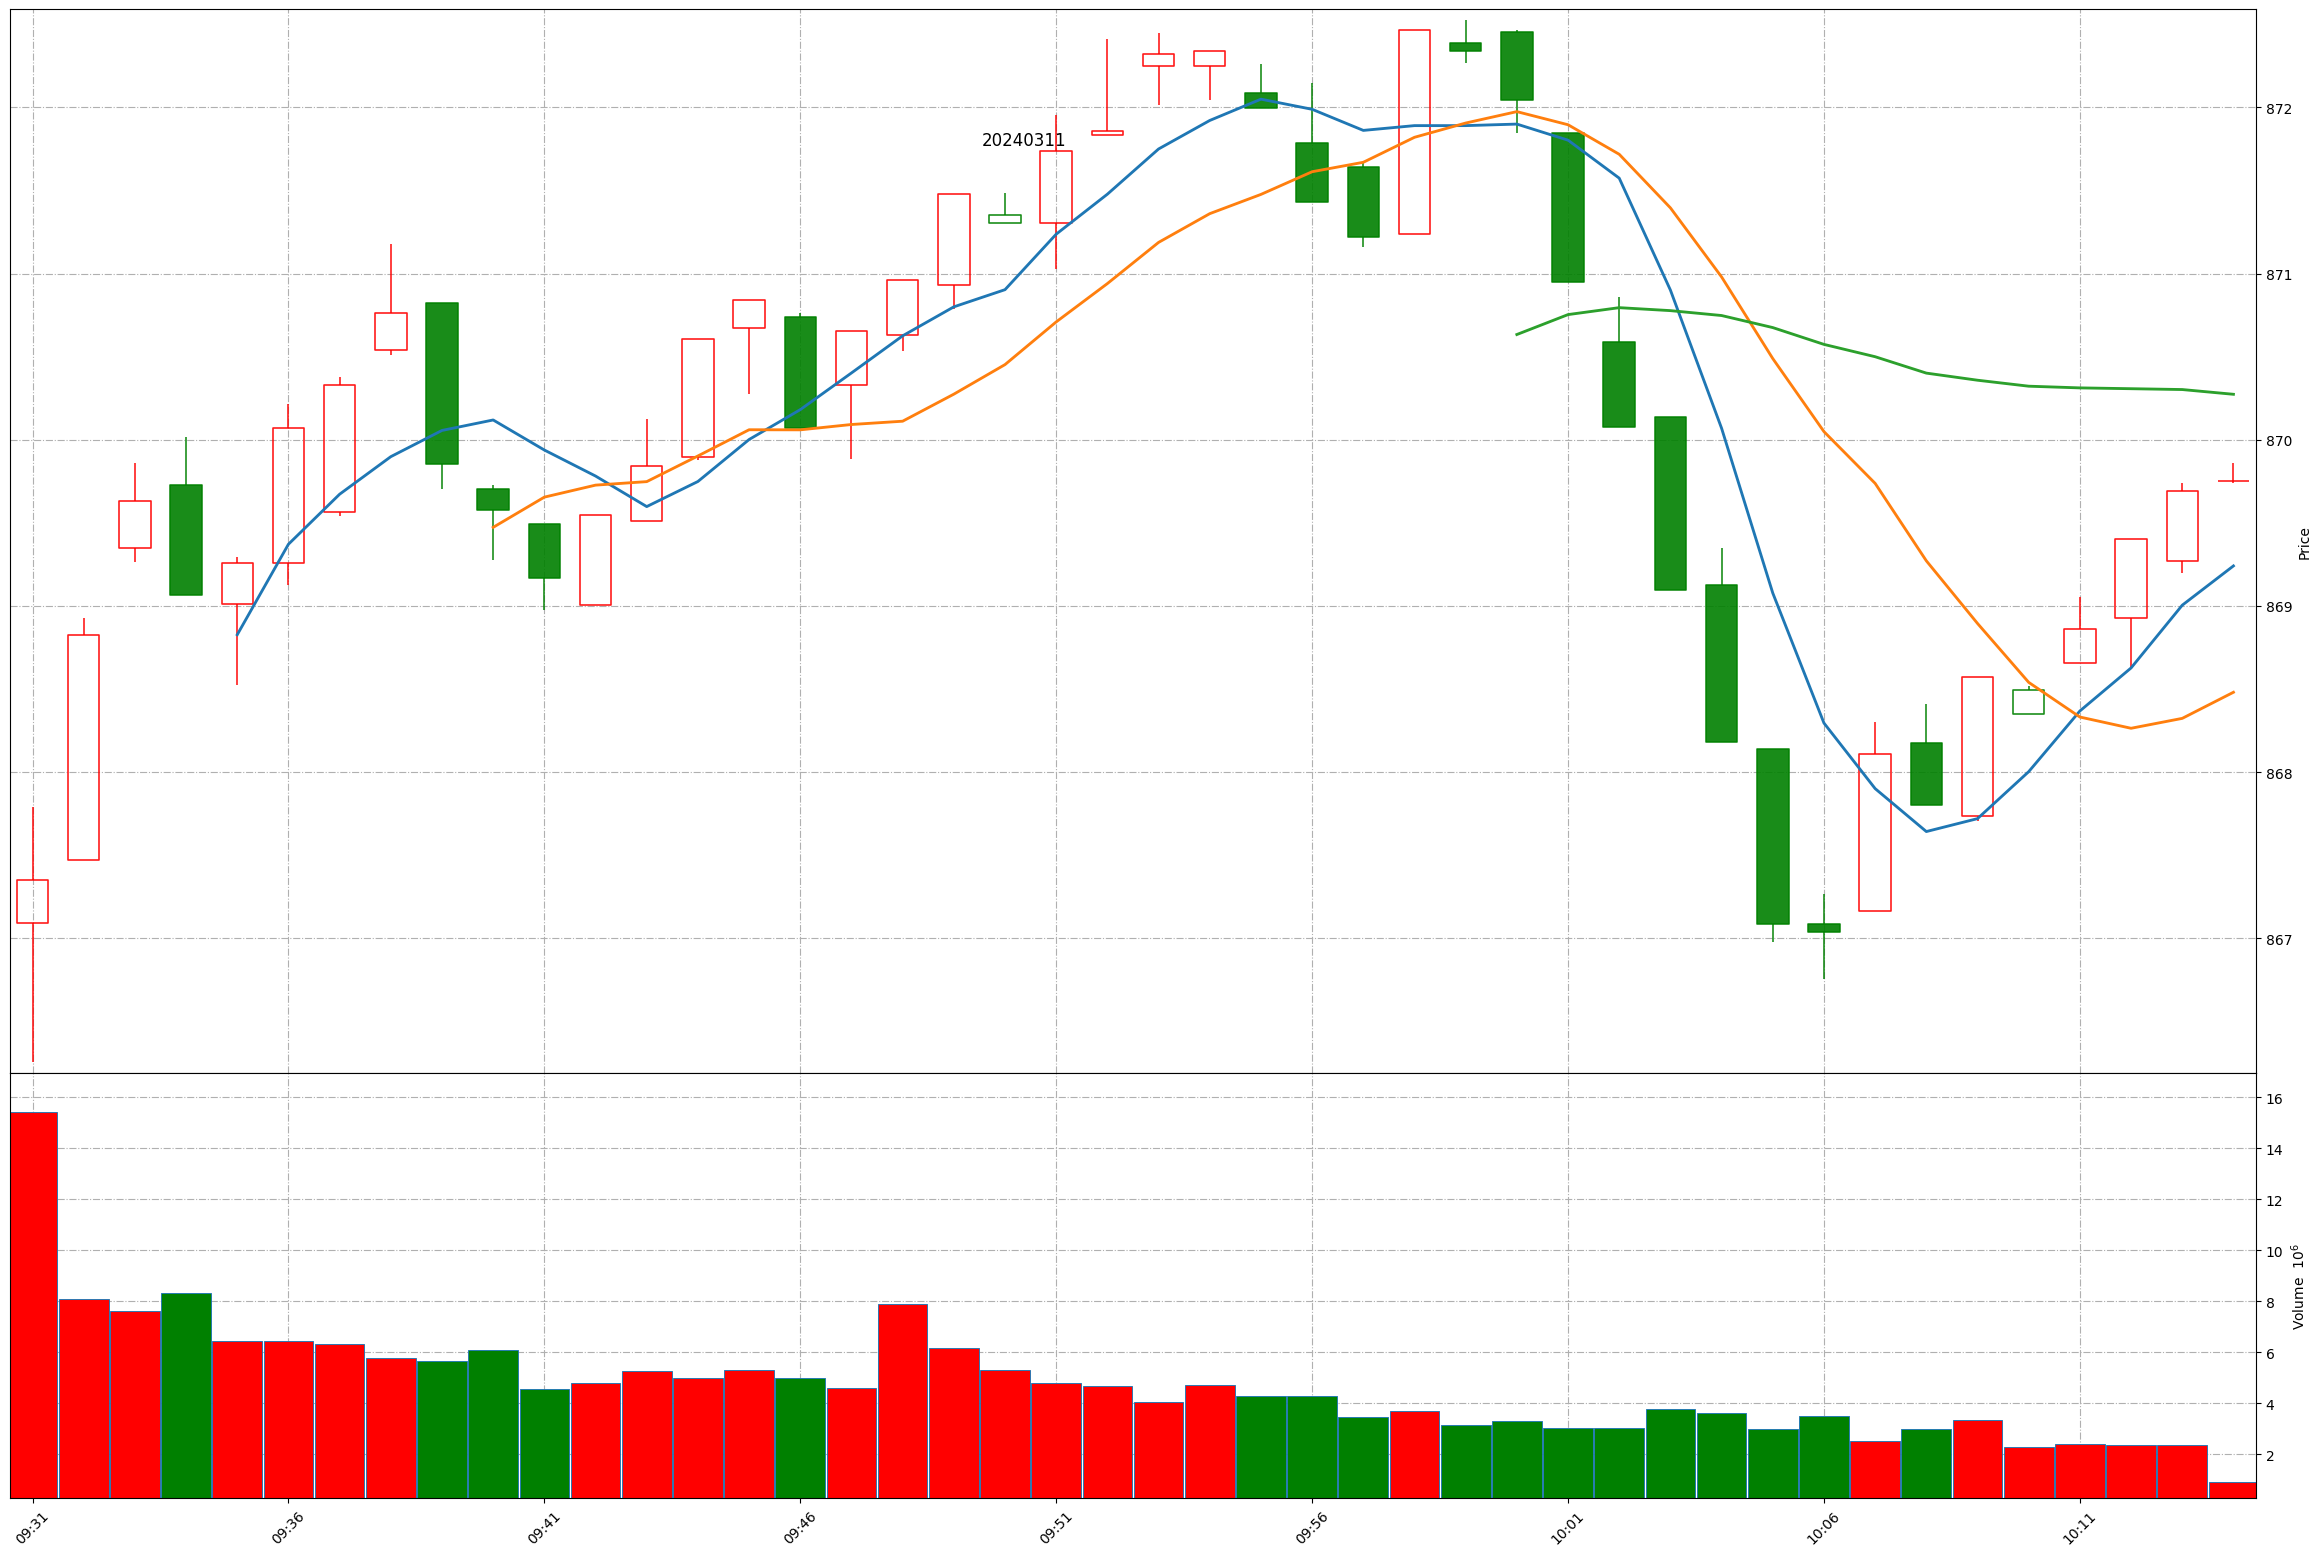
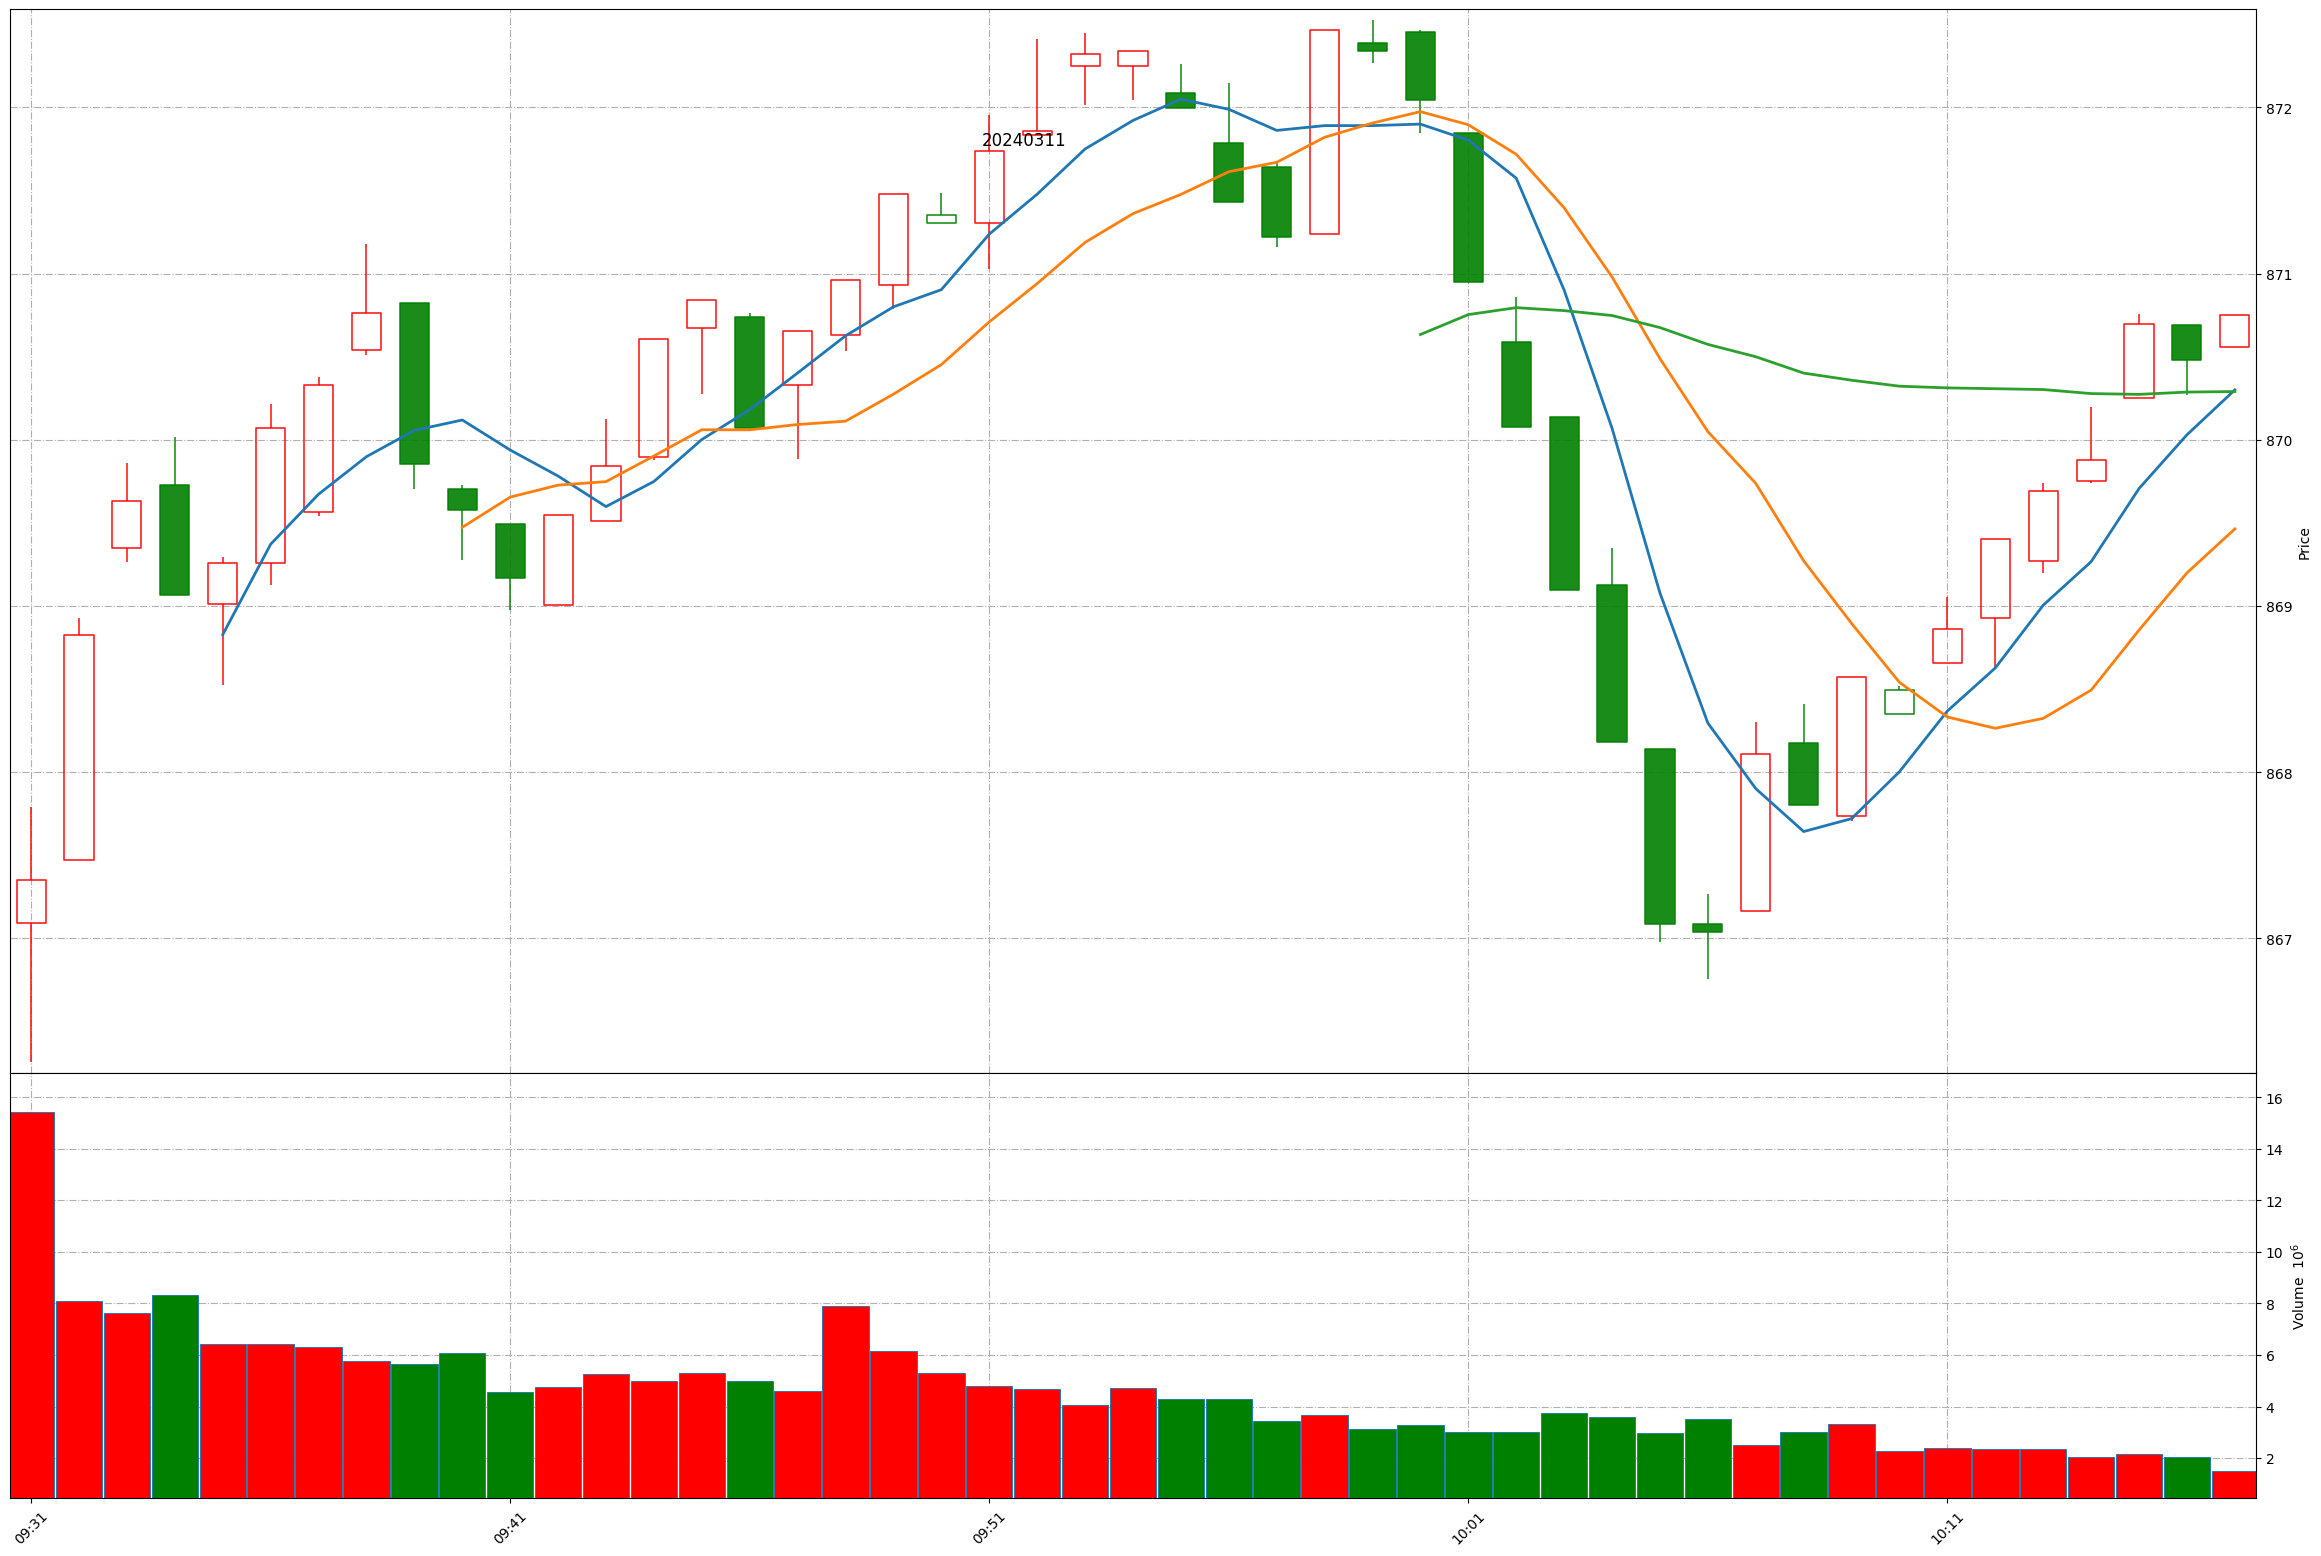
Github action update at 2024-03-11 10:16:56.

diff --git a/README.md b/README.md
@@ -1,11 +1,11 @@
 
 # Daily-A-share-market-quotes 每日 A 股指数（5min 更新）- 20240311
 
-### 上证指数 20240311 10:13
+### 上证指数 20240311 10:16
 ![](./fig/2024/3/20240311-sh000001.png)
 
-### 深证成指 20240311 10:13
+### 深证成指 20240311 10:16
 ![](./fig/2024/3/20240311-sz399001.png)
 
-### 北证50 20240311 10:13
+### 北证50 20240311 10:16
 ![](./fig/2024/3/20240311-bj899050.png)
